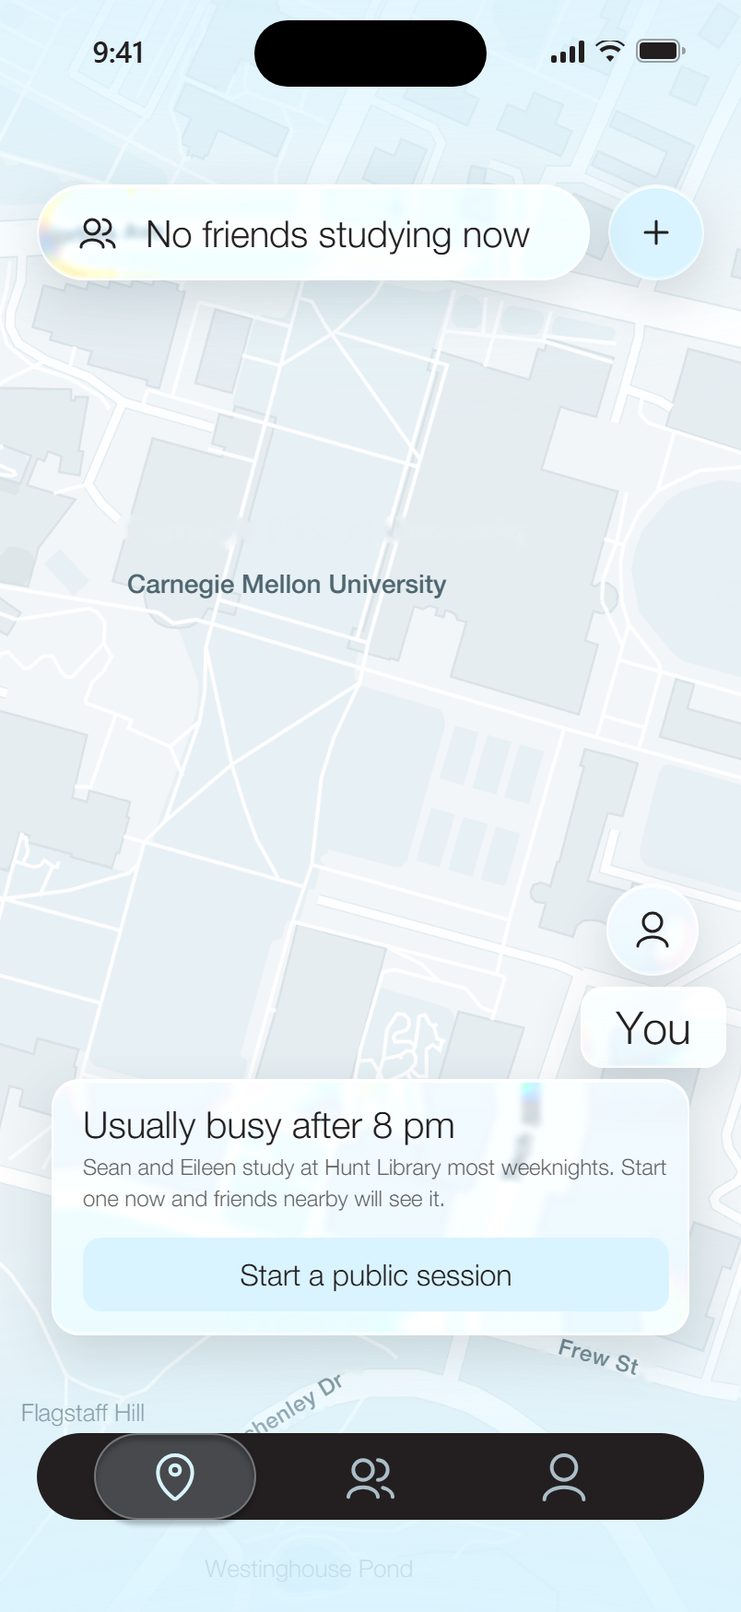
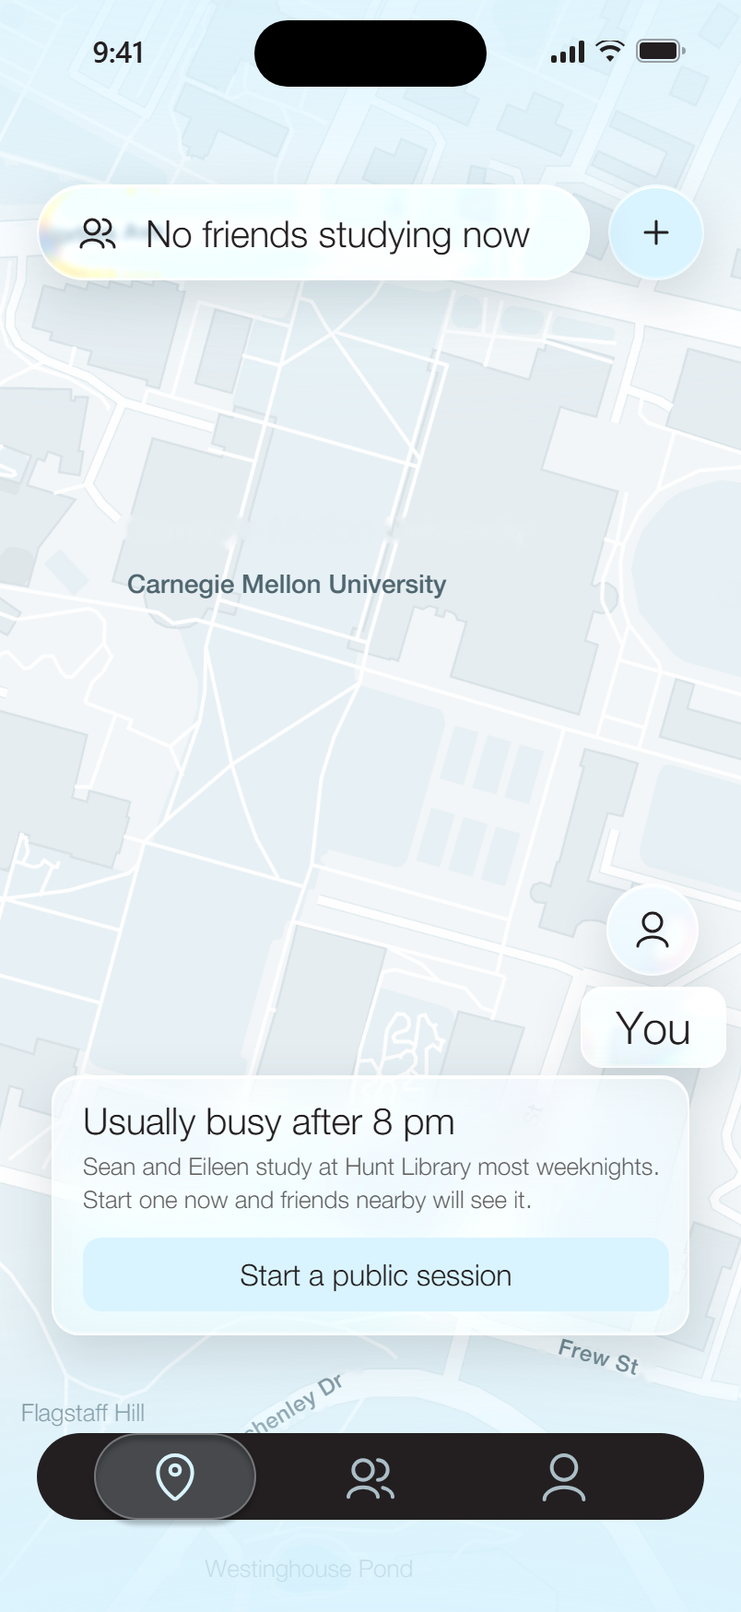
Bring in the latest Sessions prototype and refresh its posters
The new session-name screen, profile and timer backgrounds, and the
glass and spacing updates from the artifact.

Changed region(s): [[0.1244, 0.6487, 0.9017, 0.7723]]

diff --git a/work/sessions-prototype.html b/work/sessions-prototype.html
@@ -69,7 +69,7 @@ svg.i{display:block;flex:none}
 /* welcome: one live card from the map, at its real size, in the light */
 .mapcard.preview{pointer-events:none;animation:rise .8s var(--ease) .1s both}
 .mapcard.preview .avs{display:flex;flex:none;align-self:center}
-.mapcard.preview .avs i{width:28px;height:28px;border-radius:50%;margin-left:-8px;display:grid;place-items:center;font-style:normal;font-size:12px;color:var(--ink);background:var(--pale);border:2px solid var(--bg)}
+.mapcard.preview .avs i{width:28px;height:28px;border-radius:50%;margin-left:-8px;display:grid;place-items:center;font-style:normal;font-size:13px;color:var(--ink);background:var(--pale);border:2px solid var(--bg)}
 .mapcard.preview .avs i:first-child{margin-left:0}
 .mapcard.preview .avs i.more{background:var(--bg);border-color:var(--line)}
 @keyframes rise{from{opacity:0;transform:translateY(10px)}to{opacity:1;transform:none}}
@@ -83,7 +83,7 @@ svg.i{display:block;flex:none}
 
 /* type */
 .h1{font-weight:500;font-size:32px;line-height:1.15;color:var(--ink);margin:0}
-.t24{font-size:24px}.t20{font-size:20px}.t16{font-size:16px}.t12{font-size:12px}
+.t24{font-size:24px}.t20{font-size:20px}.t16{font-size:16px}.t12{font-size:13px;line-height:1.35}
 .mut{color:var(--ink50)}
 .accent{color:var(--dark)}
 /* the wordmark: the file's 64 Light with its peach-to-blue, the one place the gradient stays */
@@ -110,7 +110,8 @@ svg.i{display:block;flex:none}
 .iconbtn{width:50px;height:50px;border-radius:50%;display:grid;place-items:center;flex:none}
 .iconbtn.pale{background:rgba(217,244,255,.5);border:1px solid rgba(255,255,255,.25)}
 .iconbtn.clear{background:rgba(255,255,255,.1);border:1px solid rgba(255,255,255,.25)}
-.small{display:inline-flex;align-items:center;justify-content:center;height:34px;padding:0 20px;border-radius:10px;font-size:16px}
+.small{position:relative;display:inline-flex;align-items:center;justify-content:center;height:36px;padding:0 20px;border-radius:10px;font-size:16px}
+.small::after{content:"";position:absolute;inset:-4px 0}
 .small.blue{background:var(--pale)}
 .small.line{border:1px solid var(--line);background:var(--bg)}
 
@@ -175,7 +176,7 @@ svg.i{display:block;flex:none}
 .pin .dot,.pin .lab{background:var(--frost-bg);border:1px solid var(--frost-edge);-webkit-backdrop-filter:var(--frost-blur);backdrop-filter:var(--frost-blur);box-shadow:var(--frost-shadow);transition:background .35s ease}
 .pin .lab span{display:block}
 .pin .lab .n{font-size:24px;line-height:1.1}
-.pin .lab .e{font-size:12px;color:var(--ink50)}
+.pin .lab .e{font-size:13px;color:var(--ink50)}
 /* the session in view rises and whitens; the others step back */
 .pin.on{transform:translateY(-3px);z-index:5}
 .pin.on .dot,.pin.on .lab{background:linear-gradient(180deg,rgba(255,255,255,.82),rgba(251,254,255,.62))}
@@ -207,15 +208,15 @@ svg.i{display:block;flex:none}
 .readout .lab{font-size:20px;color:#FBFEFF;margin-top:10px}
 /* four dots: quarters of the session, filled as they pass */
 .prog{display:flex;gap:10px;justify-content:center;margin-top:12px}
-.prog i{width:9px;height:9px;border-radius:50%;border:1px solid rgba(251,254,255,.7);transition:background .5s ease,transform .5s var(--spring)}
-.prog i.on{background:#FBFEFF;border-color:#FBFEFF}
+.prog i{width:9px;height:9px;border-radius:50%;border:1px solid rgba(217,244,255,.85);transition:background .5s ease,transform .5s var(--spring)}
+.prog i.on{background:linear-gradient(180deg,#FBFEFF,#D9F4FF);border-color:#D9F4FF}
 .readout .num{transition:transform .18s var(--ease)}
 .readout .num.bump{transform:scale(1.03)}
 .seg{position:absolute;top:100px;left:84px;width:234px;height:60px;border-radius:250px;display:flex;align-items:center;padding:3px;box-sizing:border-box}
 .seg .knob{position:absolute;top:2px;left:3px;width:111px;height:54px;border-radius:250px;background:var(--pale);border:1px solid rgba(255,255,255,.25);box-shadow:inset 0 1px 0 rgba(255,255,255,.7),0 2px 8px rgba(52,67,74,.1);transition:left .4s var(--spring),width .4s var(--spring)}
 .seg button{position:relative;z-index:1;flex:1;height:54px;font-size:24px;color:rgba(35,31,32,.5);transition:color .25s}
 .seg button[aria-pressed="true"]{color:var(--ink)}
-.hours{position:absolute;left:0;right:0;top:354px;text-align:center}
+.hours{position:absolute;left:0;right:0;top:390px;text-align:center}
 .hours .big{font-size:96px;line-height:113px;letter-spacing:-1px;font-variant-numeric:tabular-nums}
 .hours .unit{font-size:20px;color:#FBFEFF;margin-top:10px}
 .dial{position:absolute;left:0;top:565px;width:402px;height:309px;overflow:visible;touch-action:none;cursor:grab}
@@ -226,13 +227,23 @@ svg.i{display:block;flex:none}
 .go{position:absolute;right:20px;top:764px;width:217px;height:60px;border-radius:250px;display:flex;align-items:center;padding:5px;overflow:hidden;touch-action:none}
 .go .fill{position:absolute;left:0;top:0;bottom:0;width:60px;border-radius:250px;background:rgba(251,254,255,.35);pointer-events:none}
 .go .lab,.go .chev{transition:opacity .2s ease}
-.go .knob{position:relative;z-index:2;width:50px;height:50px;border-radius:50%;background:var(--pale);border:1px solid rgba(255,255,255,.25);box-shadow:inset 0 1px 0 rgba(255,255,255,.7),0 2px 8px rgba(52,67,74,.12);display:grid;place-items:center;color:var(--ink);transition:transform .35s var(--ease)}
-.go .lab{position:absolute;left:85px;font-size:24px;line-height:24px;color:var(--ink50)}
-.go .chev{position:absolute;right:20px;display:flex;color:var(--ink50)}
+.go .knob{position:relative;z-index:2;width:50px;height:50px;border-radius:50%;background:var(--pale);border:1px solid rgba(255,255,255,.25);box-shadow:inset 0 1px 0 rgba(255,255,255,.7),0 2px 8px rgba(52,67,74,.12);display:grid;place-items:center;color:var(--deep);transition:transform .35s var(--ease)}
+.go .lab{position:absolute;left:85px;font-size:24px;line-height:24px;color:var(--deep)}
+.go .chev{position:absolute;right:20px;display:flex;color:var(--deep)}
 .go .chev svg{margin-left:-5px}
+/* name your session: the file's frame 437:1832 */
+.askhead{position:absolute;left:25px;right:25px;top:343px;display:flex;flex-direction:column;align-items:center;text-align:center}
+.g36{margin:0;font-size:32px;line-height:38px;font-weight:300;background:linear-gradient(180deg,#FBFEFF,#D9F4FF);-webkit-background-clip:text;background-clip:text;color:transparent}
+.field.askfield{box-sizing:border-box;position:absolute;left:20px;top:519px;width:362px;background:rgba(217,244,255,.35);border:1px solid rgba(255,255,255,.4);box-shadow:inset 0 1px 2px rgba(255,255,255,.4);-webkit-backdrop-filter:blur(12px);backdrop-filter:blur(12px)}
+.askfield input{color:var(--ink)}
+.askfield input::placeholder{color:var(--ink)}
+.field.askfield .send{background:var(--pale);color:var(--deep);border:1px solid rgba(255,255,255,.25)}
+.iconbtn.askclose{position:absolute;left:20px;top:769px;color:var(--deep);background:rgba(255,255,255,.12);border:1px solid rgba(255,255,255,.75);box-shadow:inset 0 1px 2px rgba(255,255,255,.55)}
 .bgimg{position:absolute;left:0;top:0;width:402px;height:874px;pointer-events:none;user-select:none}
 .bottomrow{position:absolute;left:20px;right:20px;bottom:50px;display:flex;justify-content:space-between;align-items:center}
-.pillbtn{display:flex;align-items:center;gap:20px;padding:0 20px;font-size:24px;color:var(--slate);height:52px}
+.pillbtn{display:flex;align-items:center;gap:20px;padding:0 20px;font-size:24px;color:var(--deep);height:52px}
+/* the timer's glass, as the file renders it: almost no fill, a bright 1px rim, an inner highlight, no drop shadow */
+[data-screen=run] .glass{-webkit-backdrop-filter:blur(8px);backdrop-filter:blur(8px);background:rgba(255,255,255,.12);border:1px solid rgba(255,255,255,.75);box-shadow:inset 0 1px 2px rgba(255,255,255,.55),inset 0 -1px 2px rgba(255,255,255,.2)}
 .along{position:absolute;left:50%;top:670px;transform:translateX(-50%);display:flex;align-items:center;gap:20px;height:52px;padding:0 20px;color:var(--slate);font-size:24px;white-space:nowrap}
 
 /* onboarding */
@@ -251,10 +262,10 @@ svg.i{display:block;flex:none}
 .inputline input{flex:1;border:0;outline:none;background:none;font:inherit;font-weight:300;color:var(--ink);min-width:0}
 .inputline input::placeholder{color:rgba(35,31,32,.4)}
 .textlink{font-size:16px;color:var(--slate);text-align:center;height:44px}
-.chips{display:flex;flex-wrap:wrap;gap:10px}
-.chip{white-space:nowrap;height:39px;padding:0 10px;border-radius:12.5px;border:1px solid var(--line);font-size:16px;background:var(--bg);transition:background .2s,border-color .2s}
+.chips{display:flex;flex-wrap:wrap;gap:8px}
+.chip{white-space:nowrap;height:44px;padding:0 10px;border-radius:12.5px;border:1px solid var(--line);font-size:16px;background:var(--bg);transition:background .2s,border-color .2s}
 .chip[aria-pressed="true"]{background:var(--pale);border-color:var(--pale)}
-.chip.add{width:39px;padding:0;display:grid;place-items:center}
+.chip.add{width:44px;padding:0;display:grid;place-items:center}
 .opt{display:flex;align-items:center;gap:16px;padding:12px 20px;width:100%;text-align:left;background:transparent;border:1px solid transparent;border-radius:15px;transition:background .3s var(--ease),border-color .3s}
 .opt .stack{flex:1;min-width:0;gap:2px}
 /* the Public / Private segment, as a list: unselected at ink 50%, the chosen one on the pale knob */
@@ -276,11 +287,13 @@ svg.i{display:block;flex:none}
 .field input{flex:1;background:none;border:0;outline:none;font-size:20px;color:var(--ink);min-width:0}
 .field input::placeholder{color:var(--ink50)}
 .field .send{width:52px;height:52px;border-radius:50%;background:var(--ink);display:grid;place-items:center;color:var(--bg);flex:none}
-.search{display:flex;align-items:center;gap:20px;height:44px;padding:0 25px;border-radius:250px;background:linear-gradient(180deg,rgba(255,255,255,.45),rgba(217,244,255,.25));border:1px solid var(--frost-edge);-webkit-backdrop-filter:var(--frost-blur);backdrop-filter:var(--frost-blur);box-shadow:var(--frost-shadow);font-size:20px}
+.search{display:flex;align-items:center;gap:20px;height:44px;padding:0 25px;border-radius:250px;background:rgba(217,244,255,.25);border:1px solid rgba(255,255,255,.25);-webkit-backdrop-filter:blur(12px);backdrop-filter:blur(12px);box-shadow:inset 0 1px 1px rgba(255,255,255,.6);font-size:20px}
 .flist{overflow-y:auto;scrollbar-width:none;-webkit-mask-image:linear-gradient(180deg,#000 85%,transparent);mask-image:linear-gradient(180deg,#000 85%,transparent);padding-bottom:24px}
 .flist::-webkit-scrollbar{display:none}
 .hlist{-webkit-mask-image:linear-gradient(180deg,transparent,#000 12px);mask-image:linear-gradient(180deg,transparent,#000 12px)}
-.search .ph{flex:1;color:rgba(35,31,32,.5)}
+button[data-back]::after,button[data-end]::after{content:"";position:absolute;inset:-10px}
+button[data-back]{position:relative}
+.search .ph{flex:1;color:var(--ink50)}
 
 /* screen frame helpers */
 .pad{position:absolute;left:20px;right:20px}
@@ -329,7 +342,7 @@ right:'<path d="M16 17L21 12L16 7M21 12H3"/>',
 left:'<path d="M8 7L3 12L8 17M3 12H21"/>',
 edit:'<path d="M12 8.00012L4 16.0001V20.0001L8 20.0001L16 12.0001M12 8.00012L14.8686 5.13146L14.8704 5.12976C15.2652 4.73488 15.463 4.53709 15.691 4.46301C15.8919 4.39775 16.1082 4.39775 16.3091 4.46301C16.5369 4.53704 16.7345 4.7346 17.1288 5.12892L18.8686 6.86872C19.2646 7.26474 19.4627 7.46284 19.5369 7.69117C19.6022 7.89201 19.6021 8.10835 19.5369 8.3092C19.4628 8.53736 19.265 8.73516 18.8695 9.13061L18.8686 9.13146L16 12.0001M12 8.00012L16 12.0001"/>',
 group:'<path d="M17 20C17 18.3431 14.7614 17 12 17C9.23858 17 7 18.3431 7 20M21 17.0004C21 15.7702 19.7659 14.7129 18 14.25M3 17.0004C3 15.7702 4.2341 14.7129 6 14.25M18 10.2361C18.6137 9.68679 19 8.8885 19 8C19 6.34315 17.6569 5 16 5C15.2316 5 14.5308 5.28885 14 5.76389M6 10.2361C5.38625 9.68679 5 8.8885 5 8C5 6.34315 6.34315 5 8 5C8.76835 5 9.46924 5.28885 10 5.76389M12 14C10.3431 14 9 12.6569 9 11C9 9.34315 10.3431 8 12 8C13.6569 8 15 9.34315 15 11C15 12.6569 13.6569 14 12 14Z"/>',
-pause:'<path d="M9 5.5v13M15 5.5v13"/>',
+pause:'<path d="M9 3.5v17M15 3.5v17"/>',
 play:'<path d="M8.5 5.8v12.4a.6.6 0 0 0 .9.5l9.6-6.2a.6.6 0 0 0 0-1L9.4 5.3a.6.6 0 0 0-.9.5z"/>',
 chevron:'<path d="M9 5L16 12L9 19"/>',
 share:'<path d="M15 6L12 3L9 6M12 3V13M7.00023 10C6.06835 10 5.60241 10 5.23486 10.1522C4.74481 10.3552 4.35523 10.7448 4.15224 11.2349C4 11.6024 4 12.0681 4 13V17.8C4 18.9201 4 19.4798 4.21799 19.9076C4.40973 20.2839 4.71547 20.5905 5.0918 20.7822C5.5192 21 6.07899 21 7.19691 21H16.8036C17.9215 21 18.4805 21 18.9079 20.7822C19.2842 20.5905 19.5905 20.2839 19.7822 19.9076C20 19.4802 20 18.921 20 17.8031V13C20 12.0681 19.9999 11.6024 19.8477 11.2349C19.6447 10.7448 19.2554 10.3552 18.7654 10.1522C18.3978 10 17.9319 10 17 10"/>',
@@ -483,9 +496,9 @@ name:{label:'Your name',html:(o={})=>`${LIGHT.plain}${obHead('name',o.settings)}
   mount(s,o={}){const f=s.querySelector('[data-nameform]'),i=s.querySelector('[data-yourname]');const next=e=>{e&&e.preventDefault();S.name=i.value.trim()||'Emma';if(o.settings){toast('Name updated');back();}else go('pref');};f.onsubmit=next;s.querySelector('[data-next]').onclick=next;}},
 
 pref:{label:'Study preferences',html:()=>{
-  const grp=(t,ks)=>`<div class="stack" style="gap:20px"><div class="t20">${t}</div><div class="chips">${ks.map(k=>`<button class="chip" data-chip="${k}" aria-pressed="${!!S.prefs[k]}">${k}</button>`).join('')}${t!=='Preference'?`<button class="chip add" aria-label="Add ${t.toLowerCase()}">${I('plus')}</button>`:''}</div></div>`;
+  const grp=(t,ks)=>`<div class="stack" style="gap:12px"><div class="t20">${t}</div><div class="chips">${ks.map(k=>`<button class="chip" data-chip="${k}" aria-pressed="${!!S.prefs[k]}">${k}</button>`).join('')}${t!=='Preference'?`<button class="chip add" aria-label="Add ${t.toLowerCase()}">${I('plus')}</button>`:''}</div></div>`;
   return `${LIGHT.plain}${obHead('pref')}<div class="obbody"><div class="obtitle"><h1 class="h1">Study Preferences</h1></div>
-  <div class="stack" style="gap:32px">${grp('Subjects',['Design','Computer science','Math'])}${grp('Study Times',['Weekdays','Evenings'])}${grp('Study Style',['Silent','Discussion','Groupwork'])}${grp('Preference',['Physical','Remote','Both'])}</div></div>
+  <div class="stack" style="gap:24px">${grp('Subjects',['Design','Computer science','Math'])}${grp('Study Times',['Weekdays','Evenings'])}${grp('Study Style',['Silent','Discussion','Groupwork'])}${grp('Preference',['Physical','Remote','Both'])}</div></div>
   <div class="pad" style="bottom:50px"><button class="btn primary" data-go="invite" style="height:48px">Next</button></div>`},
   mount(s){s.querySelectorAll('[data-chip]').forEach(b=>b.onclick=()=>{const k=b.dataset.chip;S.prefs[k]=!S.prefs[k];b.setAttribute('aria-pressed',S.prefs[k]);
     if(['Physical','Remote','Both'].includes(k)&&S.prefs[k])['Physical','Remote','Both'].filter(x=>x!==k).forEach(x=>{S.prefs[x]=false;s.querySelector(`[data-chip="${x}"]`).setAttribute('aria-pressed','false');});});}},
@@ -601,15 +614,11 @@ map:{label:'Map',html:()=>{
     s.querySelectorAll('[data-join]').forEach(b=>b.onclick=()=>{light(b.dataset.join);joinSheet(b.dataset.join);});
     s.querySelectorAll('[data-view]').forEach(b=>b.onclick=()=>b.dataset.view==='library'?go('session',{key:'library'}):go('friend',{key:b.dataset.view}));}},
 
-ask:{label:'Name your session',html:()=>`${LIGHT.ask}
-  <div class="obhead"><button data-back aria-label="Close" style="width:24px;height:24px">${I('close')}</button></div>
-  <div class="obbody">
-    <div class="obtitle"><h1 class="h1" style="font-weight:300">What are you studying today?</h1><p>Friends see it on your pin while the session runs.</p></div>
-    <form class="field" data-form autocomplete="off"><input data-name aria-label="Session name" placeholder="Session name" maxlength="24"><button class="send" type="submit" aria-label="Next">${I('right')}</button></form>
-    <div class="stack" style="gap:20px"><div class="t12" style="letter-spacing:.3px">Recent</div><div class="chips">${['Calculus','15-213','Thesis','Reading'].map(k=>`<button class="chip" data-recent="${k}">${k}</button>`).join('')}</div></div>
-  </div>`,
-  mount(s){const f=s.querySelector('[data-form]'),i=s.querySelector('[data-name]');f.onsubmit=e=>{e.preventDefault();S.subject=i.value.trim()||'Calculus';go('dial');};
-    s.querySelectorAll('[data-recent]').forEach(b=>b.onclick=()=>{i.value=b.dataset.recent;i.focus();});}},
+ask:{label:'Name your session',html:()=>`<img class="bgimg" src="sessions-proto/askbg.jpg" alt="" aria-hidden="true">
+  <div class="askhead" aria-hidden="false"><p class="g36">Hello, ${S.name}</p><h1 class="g36" style="margin-top:32px">What are you<br>studying today?</h1></div>
+  <form class="field askfield" data-form autocomplete="off"><input data-name aria-label="Session name" placeholder="Session Name" maxlength="24"><button class="send" type="submit" aria-label="Next">${I('right')}</button></form>
+  <button class="iconbtn clear askclose" data-back aria-label="Close">${I('close')}</button>`,
+  mount(s){const f=s.querySelector('[data-form]'),i=s.querySelector('[data-name]');f.onsubmit=e=>{e.preventDefault();S.subject=i.value.trim()||'Calculus';go('dial');};}},
 
 dial:{label:'Set the length',html:()=>{
   const L=minsLabel(S.mins);
@@ -617,7 +626,7 @@ dial:{label:'Set the length',html:()=>{
   return `<img class="bgimg" src="sessions-proto/dialbg.jpg" alt="" aria-hidden="true">
   <div class="seg" role="group" aria-label="Who can see this session"><span class="knob" style="${S.pub?'':'left:118px'}"></span><button data-pub="1" aria-pressed="${S.pub}">Public</button><button data-pub="0" aria-pressed="${!S.pub}">Private</button></div>
   <div class="hours" aria-live="polite"><div class="big grad-text" data-big>${L.big}</div><div class="unit" data-unit>${L.unit}</div></div>
-  <svg class="dial" data-dial viewBox="0 0 402 309" fill="none" xmlns="http://www.w3.org/2000/svg" role="slider" tabindex="0" aria-label="Session length" aria-valuemin="15" aria-valuemax="240" aria-valuenow="${S.mins}" aria-valuetext="${L.big} ${L.unit}"> <defs> <linearGradient id="d_fade" x1="201.5" y1="8" x2="201.5" y2="411" gradientUnits="userSpaceOnUse"><stop stop-color="#D9F4FF"/><stop offset="0.4" stop-color="#D9F4FF" stop-opacity="0"/></linearGradient> <linearGradient id="d_mark_mask" x1="201.5" y1="0" x2="201.5" y2="417" gradientUnits="userSpaceOnUse"><stop stop-color="#596E77"/><stop offset="0.4" stop-color="#D9F4FF" stop-opacity="0"/></linearGradient> <linearGradient id="d_mark" x1="202.018" y1="-1.03467" x2="202.018" y2="52.7718" gradientUnits="userSpaceOnUse"><stop stop-color="#596E77"/><stop offset="1" stop-color="#A5CCDD"/></linearGradient> <linearGradient id="d_w" x1="0" y1="0" x2="0" y2="1"><stop stop-color="#D9F4FF"/><stop offset="1" stop-color="#D9F4FF" stop-opacity="0"/></linearGradient> <linearGradient id="d_t" x1="0" y1="0" x2="0" y2="1"><stop stop-color="#D9F4FF"/><stop offset="1" stop-color="#D9F4FF" stop-opacity="0.5"/></linearGradient> <linearGradient id="d_ts" x1="0" y1="0" x2="0" y2="1"><stop stop-color="#D9F4FF"/><stop offset="0.4" stop-color="#D9F4FF" stop-opacity="0"/></linearGradient> <mask id="d_m0" style="mask-type:alpha" maskUnits="userSpaceOnUse" x="0" y="8" width="403" height="403"><circle cx="201.5" cy="209.5" r="186.5" stroke="url(#d_fade)" stroke-width="30" stroke-linejoin="round" stroke-dasharray="4 10"/></mask> <mask id="d_m1" style="mask-type:alpha" maskUnits="userSpaceOnUse" x="-7" y="0" width="417" height="417"><circle cx="201.5" cy="208.5" r="183.5" stroke="url(#d_mark_mask)" stroke-width="50" stroke-linejoin="round" stroke-dasharray="4 10"/></mask> <mask id="d_m2" style="mask-type:alpha" maskUnits="userSpaceOnUse" x="-7" y="0" width="417" height="417"><circle cx="201.5" cy="208.5" r="183.5" stroke="url(#d_fade)" stroke-width="50" stroke-linejoin="round" stroke-dasharray="4 10"/></mask> </defs> <g data-ticks style="transform-origin:201.5px 208.5px"> <g mask="url(#d_m0)"> <rect x="212.027" y="6" width="34.7501" height="48.0387" transform="rotate(7.20802 212.027 6)" fill="url(#d_w)"/> <rect width="34.7501" height="48.0387" transform="matrix(-0.992097 0.125472 0.125472 0.992097 190.477 6)" fill="url(#d_w)"/> <rect width="34.7501" height="48.0387" transform="matrix(-0.927088 0.374843 0.374843 0.927088 136.217 17)" fill="url(#d_w)"/> <rect width="34.7501" height="48.0387" transform="matrix(-0.766992 0.641657 0.641657 0.766992 86.6523 42)" fill="url(#d_w)"/> <rect width="34.7501" height="48.0387" transform="matrix(-0.536912 0.843638 0.843638 0.536912 44.6582 78)" fill="url(#d_w)"/> <rect width="34.7501" height="48.0387" transform="matrix(-0.314247 0.949341 0.949341 0.314247 16.9199 127)" fill="url(#d_w)"/> <rect x="267.527" y="15" width="34.7501" height="48.0387" transform="rotate(22.6863 267.527 15)" fill="url(#d_w)"/> <rect x="316.648" y="41" width="34.7501" height="48.0387" transform="rotate(38.1093 316.648 41)" fill="url(#d_w)"/> <rect x="359.029" y="77" width="34.7501" height="48.0387" transform="rotate(56.4368 359.029 77)" fill="url(#d_w)"/> <rect x="385.773" y="124" width="34.7501" height="48.0387" transform="rotate(65.6713 385.773 124)" fill="url(#d_w)"/> </g> <g mask="url(#d_m2)"> <rect x="144.546" y="8.65052" width="4.13896" height="49.6675" transform="rotate(-15.4697 144.546 8.65052)" fill="url(#d_t)" stroke="url(#d_ts)" stroke-width="4.13896"/> <rect x="91.8249" y="30.8846" width="4.13896" height="49.6675" transform="rotate(-29.8475 91.8249 30.8846)" fill="url(#d_t)" stroke="url(#d_ts)" stroke-width="4.13896"/> <rect x="46.925" y="67.949" width="4.13896" height="49.6675" transform="rotate(-46.9359 46.925 67.949)" fill="url(#d_t)" stroke="url(#d_ts)" stroke-width="4.13896"/> <rect x="15.8422" y="111.383" width="4.13896" height="49.6675" transform="rotate(-58.7987 15.8422 111.383)" fill="url(#d_t)" stroke="url(#d_ts)" stroke-width="4.13896"/> <rect x="307.558" y="29.842" width="4.13896" height="49.6675" transform="rotate(31.1834 307.558 29.842)" fill="url(#d_t)" stroke="url(#d_ts)" stroke-width="4.13896"/> <rect x="350.494" y="64.9264" width="4.13896" height="49.6675" transform="rotate(45.736 350.494 64.9264)" fill="url(#d_t)" stroke="url(#d_ts)" stroke-width="4.13896"/> <rect x="385.682" y="110.754" width="4.13896" height="49.6675" transform="rotate(64.7641 385.682 110.754)" fill="url(#d_t)" stroke="url(#d_ts)" stroke-width="4.13896"/> <rect x="255.018" y="7.52351" width="4.13896" height="49.6675" transform="rotate(14.5691 255.018 7.52351)" fill="url(#d_t)" stroke="url(#d_ts)" stroke-width="4.13896"/> </g> </g> <rect x="197.879" y="-1.03467" width="8.27792" height="53.8064" fill="url(#d_mark)"/> </svg>
+  <svg class="dial" data-dial viewBox="0 0 402 309" fill="none" xmlns="http://www.w3.org/2000/svg" role="slider" tabindex="0" aria-label="Session length" aria-valuemin="15" aria-valuemax="240" aria-valuenow="${S.mins}" aria-valuetext="${L.big} ${L.unit}"> <defs> <linearGradient id="d_fade" x1="201.5" y1="8" x2="201.5" y2="411" gradientUnits="userSpaceOnUse"><stop stop-color="#D9F4FF"/><stop offset="0.4" stop-color="#D9F4FF" stop-opacity="0"/></linearGradient> <linearGradient id="d_mark_mask" x1="201.5" y1="0" x2="201.5" y2="417" gradientUnits="userSpaceOnUse"><stop stop-color="#596E77"/><stop offset="0.4" stop-color="#D9F4FF" stop-opacity="0"/></linearGradient> <linearGradient id="d_mark" x1="202.018" y1="-1.03467" x2="202.018" y2="52.7718" gradientUnits="userSpaceOnUse"><stop stop-color="#596E77"/><stop offset="1" stop-color="#A5CCDD"/></linearGradient> <linearGradient id="d_w" x1="0" y1="0" x2="0" y2="1"><stop stop-color="#D9F4FF"/><stop offset="1" stop-color="#D9F4FF" stop-opacity="0"/></linearGradient> <linearGradient id="d_t" x1="0" y1="0" x2="0" y2="1"><stop stop-color="#D9F4FF"/><stop offset="1" stop-color="#D9F4FF" stop-opacity="0.5"/></linearGradient> <linearGradient id="d_ts" x1="0" y1="0" x2="0" y2="1"><stop stop-color="#D9F4FF"/><stop offset="0.4" stop-color="#D9F4FF" stop-opacity="0"/></linearGradient> <mask id="d_m0" style="mask-type:alpha" maskUnits="userSpaceOnUse" x="0" y="8" width="403" height="403"><circle cx="201.5" cy="209.5" r="186.5" stroke="url(#d_fade)" stroke-width="30" stroke-linejoin="round" stroke-dasharray="4 10"/></mask> <mask id="d_m1" style="mask-type:alpha" maskUnits="userSpaceOnUse" x="-7" y="0" width="417" height="417"><circle cx="201.5" cy="208.5" r="183.5" stroke="url(#d_mark_mask)" stroke-width="50" stroke-linejoin="round" stroke-dasharray="4 10"/></mask> <mask id="d_m2" style="mask-type:alpha" maskUnits="userSpaceOnUse" x="-7" y="0" width="417" height="417"><circle cx="201.5" cy="208.5" r="183.5" stroke="url(#d_fade)" stroke-width="50" stroke-linejoin="round" stroke-dasharray="4 10"/></mask> </defs> <g data-ticks style="transform-origin:201.5px 208.5px"> <g mask="url(#d_m0)"> <rect x="212.027" y="6" width="34.7501" height="48.0387" transform="rotate(7.20802 212.027 6)" fill="url(#d_w)"/> <rect width="34.7501" height="48.0387" transform="matrix(-0.992097 0.125472 0.125472 0.992097 190.477 6)" fill="url(#d_w)"/> <rect width="34.7501" height="48.0387" transform="matrix(-0.927088 0.374843 0.374843 0.927088 136.217 17)" fill="url(#d_w)"/> <rect width="34.7501" height="48.0387" transform="matrix(-0.766992 0.641657 0.641657 0.766992 86.6523 42)" fill="url(#d_w)"/> <rect width="34.7501" height="48.0387" transform="matrix(-0.536912 0.843638 0.843638 0.536912 44.6582 78)" fill="url(#d_w)"/> <rect width="34.7501" height="48.0387" transform="matrix(-0.314247 0.949341 0.949341 0.314247 16.9199 127)" fill="url(#d_w)"/> <rect x="267.527" y="15" width="34.7501" height="48.0387" transform="rotate(22.6863 267.527 15)" fill="url(#d_w)"/> <rect x="316.648" y="41" width="34.7501" height="48.0387" transform="rotate(38.1093 316.648 41)" fill="url(#d_w)"/> <rect x="359.029" y="77" width="34.7501" height="48.0387" transform="rotate(56.4368 359.029 77)" fill="url(#d_w)"/> <rect x="385.773" y="124" width="34.7501" height="48.0387" transform="rotate(65.6713 385.773 124)" fill="url(#d_w)"/> </g> <g mask="url(#d_m2)"> <rect x="144.546" y="8.65052" width="4.13896" height="49.6675" transform="rotate(-15.4697 144.546 8.65052)" fill="url(#d_t)" stroke="url(#d_ts)" stroke-width="4.13896"/> <rect x="91.8249" y="30.8846" width="4.13896" height="49.6675" transform="rotate(-29.8475 91.8249 30.8846)" fill="url(#d_t)" stroke="url(#d_ts)" stroke-width="4.13896"/> <rect x="46.925" y="67.949" width="4.13896" height="49.6675" transform="rotate(-46.9359 46.925 67.949)" fill="url(#d_t)" stroke="url(#d_ts)" stroke-width="4.13896"/> <rect x="15.8422" y="111.383" width="4.13896" height="49.6675" transform="rotate(-58.7987 15.8422 111.383)" fill="url(#d_t)" stroke="url(#d_ts)" stroke-width="4.13896"/> <rect x="307.558" y="29.842" width="4.13896" height="49.6675" transform="rotate(31.1834 307.558 29.842)" fill="url(#d_t)" stroke="url(#d_ts)" stroke-width="4.13896"/> <rect x="350.494" y="64.9264" width="4.13896" height="49.6675" transform="rotate(45.736 350.494 64.9264)" fill="url(#d_t)" stroke="url(#d_ts)" stroke-width="4.13896"/> <rect x="385.682" y="110.754" width="4.13896" height="49.6675" transform="rotate(64.7641 385.682 110.754)" fill="url(#d_t)" stroke="url(#d_ts)" stroke-width="4.13896"/> <rect x="255.018" y="7.52351" width="4.13896" height="49.6675" transform="rotate(14.5691 255.018 7.52351)" fill="url(#d_t)" stroke="url(#d_ts)" stroke-width="4.13896"/> </g> </g> <rect x="199.5" y="0" width="4" height="50" fill="url(#d_mark)"/> </svg>
   <button data-back aria-label="Close" style="position:absolute;left:20px;top:769px;width:50px;height:50px;border-radius:50%"></button>
   <div class="go" data-go-slider role="button" tabindex="0" aria-label="Slide to start"><span class="fill" data-fill></span><span class="knob" data-knob>${I('right')}</span><span class="lab">Go</span><span class="chev"><span style="opacity:.25">${I('chevron')}</span><span style="opacity:.5">${I('chevron')}</span><span>${I('chevron')}</span></span></div>`},
   mount(s){
@@ -627,7 +636,7 @@ dial:{label:'Set the length',html:()=>{
     /* one tick = 3.1° = 15 minutes; the ring's angle is the single source of truth */
     const STEP=3.1, base=S.mins; let rot=0;
     const angleFor=m=>-(m-base)/15*STEP, minsFor=a=>Math.max(15,Math.min(240,base-Math.round(a/STEP)*15));
-    const setRot=(a,animate)=>{rot=Math.max(angleFor(240),Math.min(angleFor(15),a));rings.forEach(c=>{c.style.transition=animate?'stroke-dashoffset .35s var(--ease)':'none';c.style.strokeDashoffset=(rot/STEP*14).toFixed(2);});
+    const setRot=(a,animate)=>{rot=Math.max(angleFor(240),Math.min(angleFor(15),a));rings.forEach(c=>{const o0=0;c.style.transition=animate?'stroke-dashoffset .35s var(--ease)':'none';c.style.strokeDashoffset=(o0+rot/STEP*14).toFixed(2);});
       const m=minsFor(rot);if(m!==S.mins){S.mins=m;const L=minsLabel(m);big.textContent=L.big;unit.textContent=L.unit;dial.setAttribute('aria-valuenow',m);dial.setAttribute('aria-valuetext',L.big+' '+L.unit);big.classList.remove('bump');void big.offsetWidth;big.classList.add('bump');}};
     const snap=()=>setRot(Math.round(rot/STEP)*STEP,true);
     let x0=null,r0=0;
@@ -635,7 +644,7 @@ dial:{label:'Set the length',html:()=>{
     dial.addEventListener('pointermove',e=>{if(x0===null)return;const k=$('#device').getBoundingClientRect().width/402;setRot(r0+((e.clientX-x0)/k)/14*STEP,false);});
     const up=()=>{if(x0===null)return;x0=null;snap();};dial.addEventListener('pointerup',up);dial.addEventListener('pointercancel',up);
     dial.addEventListener('keydown',e=>{if(e.key==='ArrowRight'||e.key==='ArrowUp')setRot(rot-STEP,true);if(e.key==='ArrowLeft'||e.key==='ArrowDown')setRot(rot+STEP,true);});
-    s.nudge=d=>setRot(rot-d*STEP,true);
+    s.nudge=d=>setRot(rot-d*STEP,true);setRot(0,false);
     const sl=s.querySelector('[data-go-slider]'),kn=s.querySelector('[data-knob]'),fill=s.querySelector('[data-fill]'),lab=sl.querySelector('.lab'),chev=sl.querySelector('.chev');const MAX=157;let sx=null,px=0;
     const place=(x,anim)=>{px=Math.max(0,Math.min(MAX,x));const t=anim?`transform .4s ${anim==='spring'?'var(--spring)':'var(--ease)'}`:'none';kn.style.transition=t;fill.style.transition=anim?'width .4s var(--ease)':'none';
       kn.style.transform=`translateX(${px}px)`;fill.style.width=(px+60)+'px';const p=px/MAX;lab.style.opacity=Math.max(0,1-p*1.6);chev.style.opacity=Math.max(0,1-p*1.3);};
@@ -651,7 +660,7 @@ run:{label:'Session running',html:()=>`<img class="bgimg" src="sessions-proto/ti
   <button class="readout" data-toggle aria-label="Switch between time in and time left" style="width:100%"><div class="num grad-text" data-num>${fmt(S.elapsed)}</div><div class="lab" data-lab>Time in</div>
     <div class="prog" data-prog role="progressbar" aria-valuemin="0" aria-valuemax="4" aria-valuenow="0" aria-label="Session progress"><i></i><i></i><i></i><i></i></div></button>
   <div class="along glass" data-along>${I('group',32)}<span data-alongn>${S.along} studying alongside</span></div>
-  <div class="bottomrow"><button class="iconbtn clear" data-end aria-label="End session" style="color:var(--slate)">${I('close')}</button>
+  <div class="bottomrow"><button class="iconbtn clear glass" data-end aria-label="End session" style="color:var(--deep)">${I('close')}</button>
     <button class="pillbtn glass" data-pause>${I('pause',32)}<span>Pause</span></button></div>`,
   mount(s){
     const num=s.querySelector('[data-num]'),lab=s.querySelector('[data-lab]'),prog=s.querySelector('[data-prog]'),dots=[...prog.children];let left=false;
@@ -686,12 +695,12 @@ friends:{label:'Friends',html:()=>{
     <div style="display:flex;align-items:center;justify-content:space-between"><h1 class="h1">Friends</h1><button data-go="add" style="display:flex;gap:20px;align-items:center;height:44px;padding:0 10px;border-radius:12.5px;background:var(--pale);font-size:20px;line-height:24px;white-space:nowrap">${I('userAdd')}<span>Add Friends</span></button></div>
     <div class="stack" style="gap:20px">
       <div class="search">${I('search')}<span class="ph">Search</span>${I('close')}</div>
-      <div style="display:flex;gap:9.5px;justify-content:space-between">${[['all','All friends'],['now','Studying now'],['req','Requests']].map(([k,l])=>`<button class="chip" style="font-size:20px;height:44px;padding:0 10px" data-filter="${k}" aria-pressed="${S.filter===k}">${l}</button>`).join('')}</div>
+      <div class="chips" style="flex-wrap:nowrap">${[['all','All friends'],['now','Studying now'],['req','Requests']].map(([k,l])=>`<button class="chip" style="padding:0 14px" data-filter="${k}" aria-pressed="${S.filter===k}">${l}</button>`).join('')}</div>
       ${req?(S.accepted?`<p class="t16 mut" style="margin:10px 0 0">No requests right now.</p>`:`<div class="row" data-req><span class="avatar">${I('user')}</span><span class="txt"><span class="a">Maya Ortiz</span><span class="b">1 mutual friend</span></span><span style="display:flex;gap:8px;padding-right:5px"><button class="small blue" data-accept>Accept</button><button class="small line" data-decline aria-label="Decline">${I('close',18)}</button></span></div>`):`
       ${S.filter==='now'?'':`<div style="position:relative;overflow:hidden;border-radius:15px;border:1px solid var(--line);padding:20px">
         ${G(215,20,137,143,'rgba(254,219,199,.5)',31)}${G(250,-10,150,186,'#D9F4FF',31)}
         <div class="stack" style="position:relative;gap:5px"><span class="t20">7 friends studying now</span><span class="t12 mut">Join them or start a session together</span></div>
-        <button class="small blue" data-go="map" data-root style="position:relative;margin-top:10px;font-size:12px;border-radius:39px">View on map</button></div>`}
+        <button class="small blue" data-go="map" data-root style="position:relative;margin-top:14px;border-radius:250px">View on map</button></div>`}
       <div class="stack flist" style="gap:10px;max-height:${S.filter==='now'?436:300}px">${shown.map(([n,st,,k])=>`<button class="row" data-friend="${k}" aria-label="${n}, ${st}"><span class="avatar">${I('user')}</span><span class="txt"><span class="a">${n}</span><span class="b">${st}</span></span><span class="go">${I('right')}</span></button>`).join('')}${S.accepted?`<button class="row" data-friend="maya"><span class="avatar">${I('user')}</span><span class="txt"><span class="a">Maya Ortiz</span><span class="b">Added just now</span></span><span class="go">${I('right')}</span></button>`:''}</div>`}
     </div></div>`},
   mount(s){s.querySelectorAll('[data-filter]').forEach(b=>b.onclick=()=>{S.filter=b.dataset.filter;go('friends',{t:'none'});});
@@ -715,7 +724,7 @@ add:{label:'Add friends',html:()=>{
 
 profile:{label:'Profile',html:()=>{
   const rows=[['user','Account Details',''],['settings','Settings','settings'],['book','Session History','history'],['star','Weekly Challenge','challenge'],['help','Help & FAQ','']];
-  return `${LIGHT.plain}<div class="glow" style="left:150px;top:-50px;width:519px;height:300px;background:#D9F4FF;filter:blur(100px)"></div>
+  return `<img class="bgimg" src="sessions-proto/profilebg.jpg" alt="" aria-hidden="true">
   <button class="iconbtn pale" data-back aria-label="Back" style="position:absolute;left:20px;top:100px">${I('left')}</button><button class="iconbtn pale" data-editname aria-label="Edit name" style="position:absolute;right:24px;top:100px">${I('edit')}</button>
   <div class="center stack" style="position:absolute;left:0;right:0;top:180px;align-items:center;gap:28px"><span style="color:var(--ink)">${I('user',128)}</span><div class="h1">${S.name}</div></div>
   <div class="pad stack" style="top:420px;gap:10px">${rows.map(([ic,l,to])=>`<button class="row" style="height:50px;min-height:50px;padding:0 20px" ${to?`data-go="${to}" ${to==='where'?'data-settings':''}`:''}>${I(ic)}<span class="txt"><span class="a" style="font-size:20px">${l}</span></span>${I('right')}</button>`).join('')}</div>`},
@@ -727,7 +736,7 @@ challenge:{label:'Weekly challenge',html:()=>{
   return `<div class="scroll" data-scroll><div style="padding:100px 20px 140px" class="stack">
     <div style="display:flex;align-items:center;gap:25px">${back_}<h1 class="h1">Weekly Challenge</h1></div>
     <div class="stack center" style="align-items:center;gap:20px;margin-top:20px"><span class="t20">Group goal</span>
-      <div style="position:relative;width:213px;height:213px"><svg width="213" height="213" viewBox="0 0 213 213" aria-hidden="true"><defs><linearGradient id="ring" x1="0" y1="0" x2="1" y2="1"><stop stop-color="#D9F4FF"/><stop offset="1" stop-color="#FEDBC7"/></linearGradient></defs><circle cx="106.5" cy="106.5" r="96" fill="none" stroke="rgba(217,244,255,.35)" stroke-width="7"/><circle data-ring cx="106.5" cy="106.5" r="96" fill="none" stroke="url(#ring)" stroke-width="7" stroke-linecap="round" stroke-dasharray="${C*.67} ${C}" transform="rotate(-90 106.5 106.5)"/></svg>
+      <div style="position:relative;width:213px;height:213px"><svg width="213" height="213" viewBox="0 0 213 213" aria-hidden="true"><defs><linearGradient id="ring" x1="0" y1="0" x2="1" y2="1"><stop stop-color="#D9F4FF"/><stop offset="1" stop-color="#FEDBC7"/></linearGradient></defs><circle cx="106.5" cy="106.5" r="96" fill="none" stroke="rgba(229,229,229,.5)" stroke-width="7"/><circle data-ring cx="106.5" cy="106.5" r="96" fill="none" stroke="url(#ring)" stroke-width="7" stroke-linecap="round" stroke-dasharray="${C*.67} ${C}" transform="rotate(-90 106.5 106.5)"/></svg>
         <div class="stack center" style="position:absolute;inset:0;justify-content:center"><span style="font-size:32px">6.7h</span><span class="t16 mut">of 10h</span></div></div>
       <div style="display:flex;gap:140px"><div class="stack center"><span class="t16">3</span><span class="t12 mut">days left</span></div><div class="stack center"><span class="t16">4</span><span class="t12 mut">members</span></div></div></div>
     <div class="t20" style="margin:20px 0 10px">Members</div>
@@ -845,6 +854,7 @@ if(!EMBED)boot();
     defs.appendChild(f);made.set(key,id);return id;
   }
   function apply(el){
+    if(el.closest('[data-screen=run],[data-screen=ask]'))return;
     const w=Math.round(el.offsetWidth),h=Math.round(el.offsetHeight);if(w<8||h<8)return;
     const r=Math.min(parseFloat(getComputedStyle(el).borderTopLeftRadius)||0,w/2,h/2);
     const key=w+'x'+h+'r'+r;if(el.dataset.lg===key)return;
